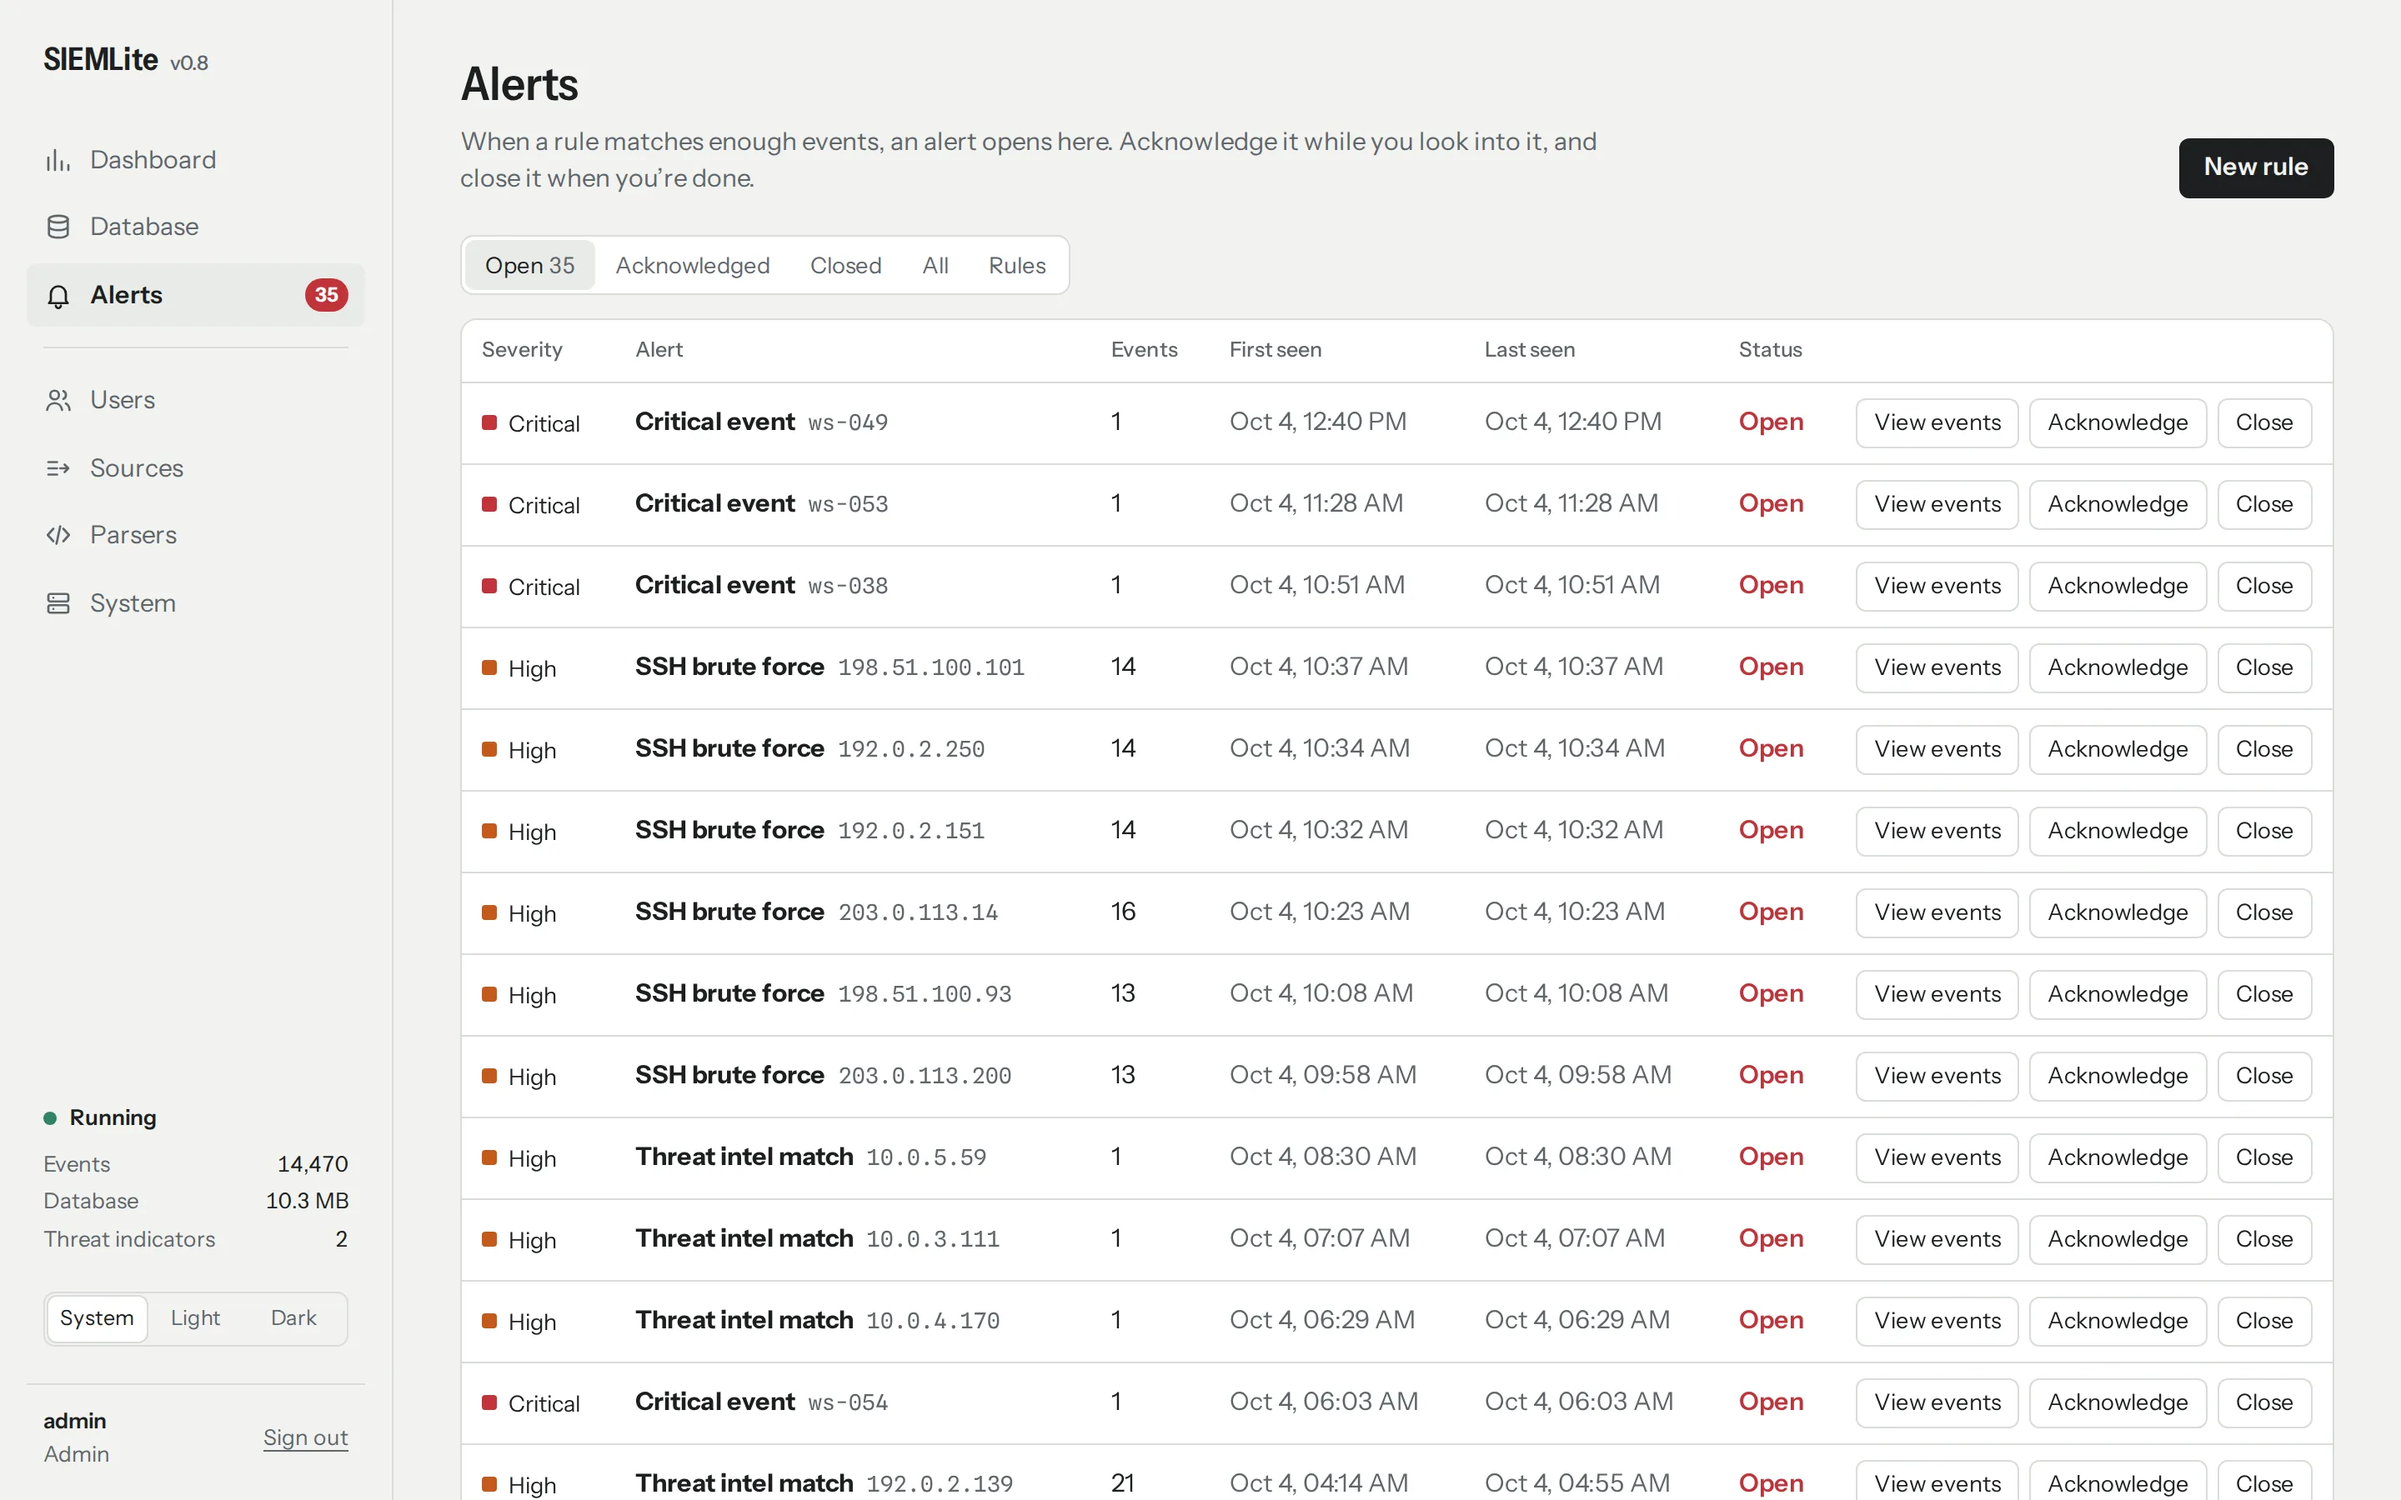
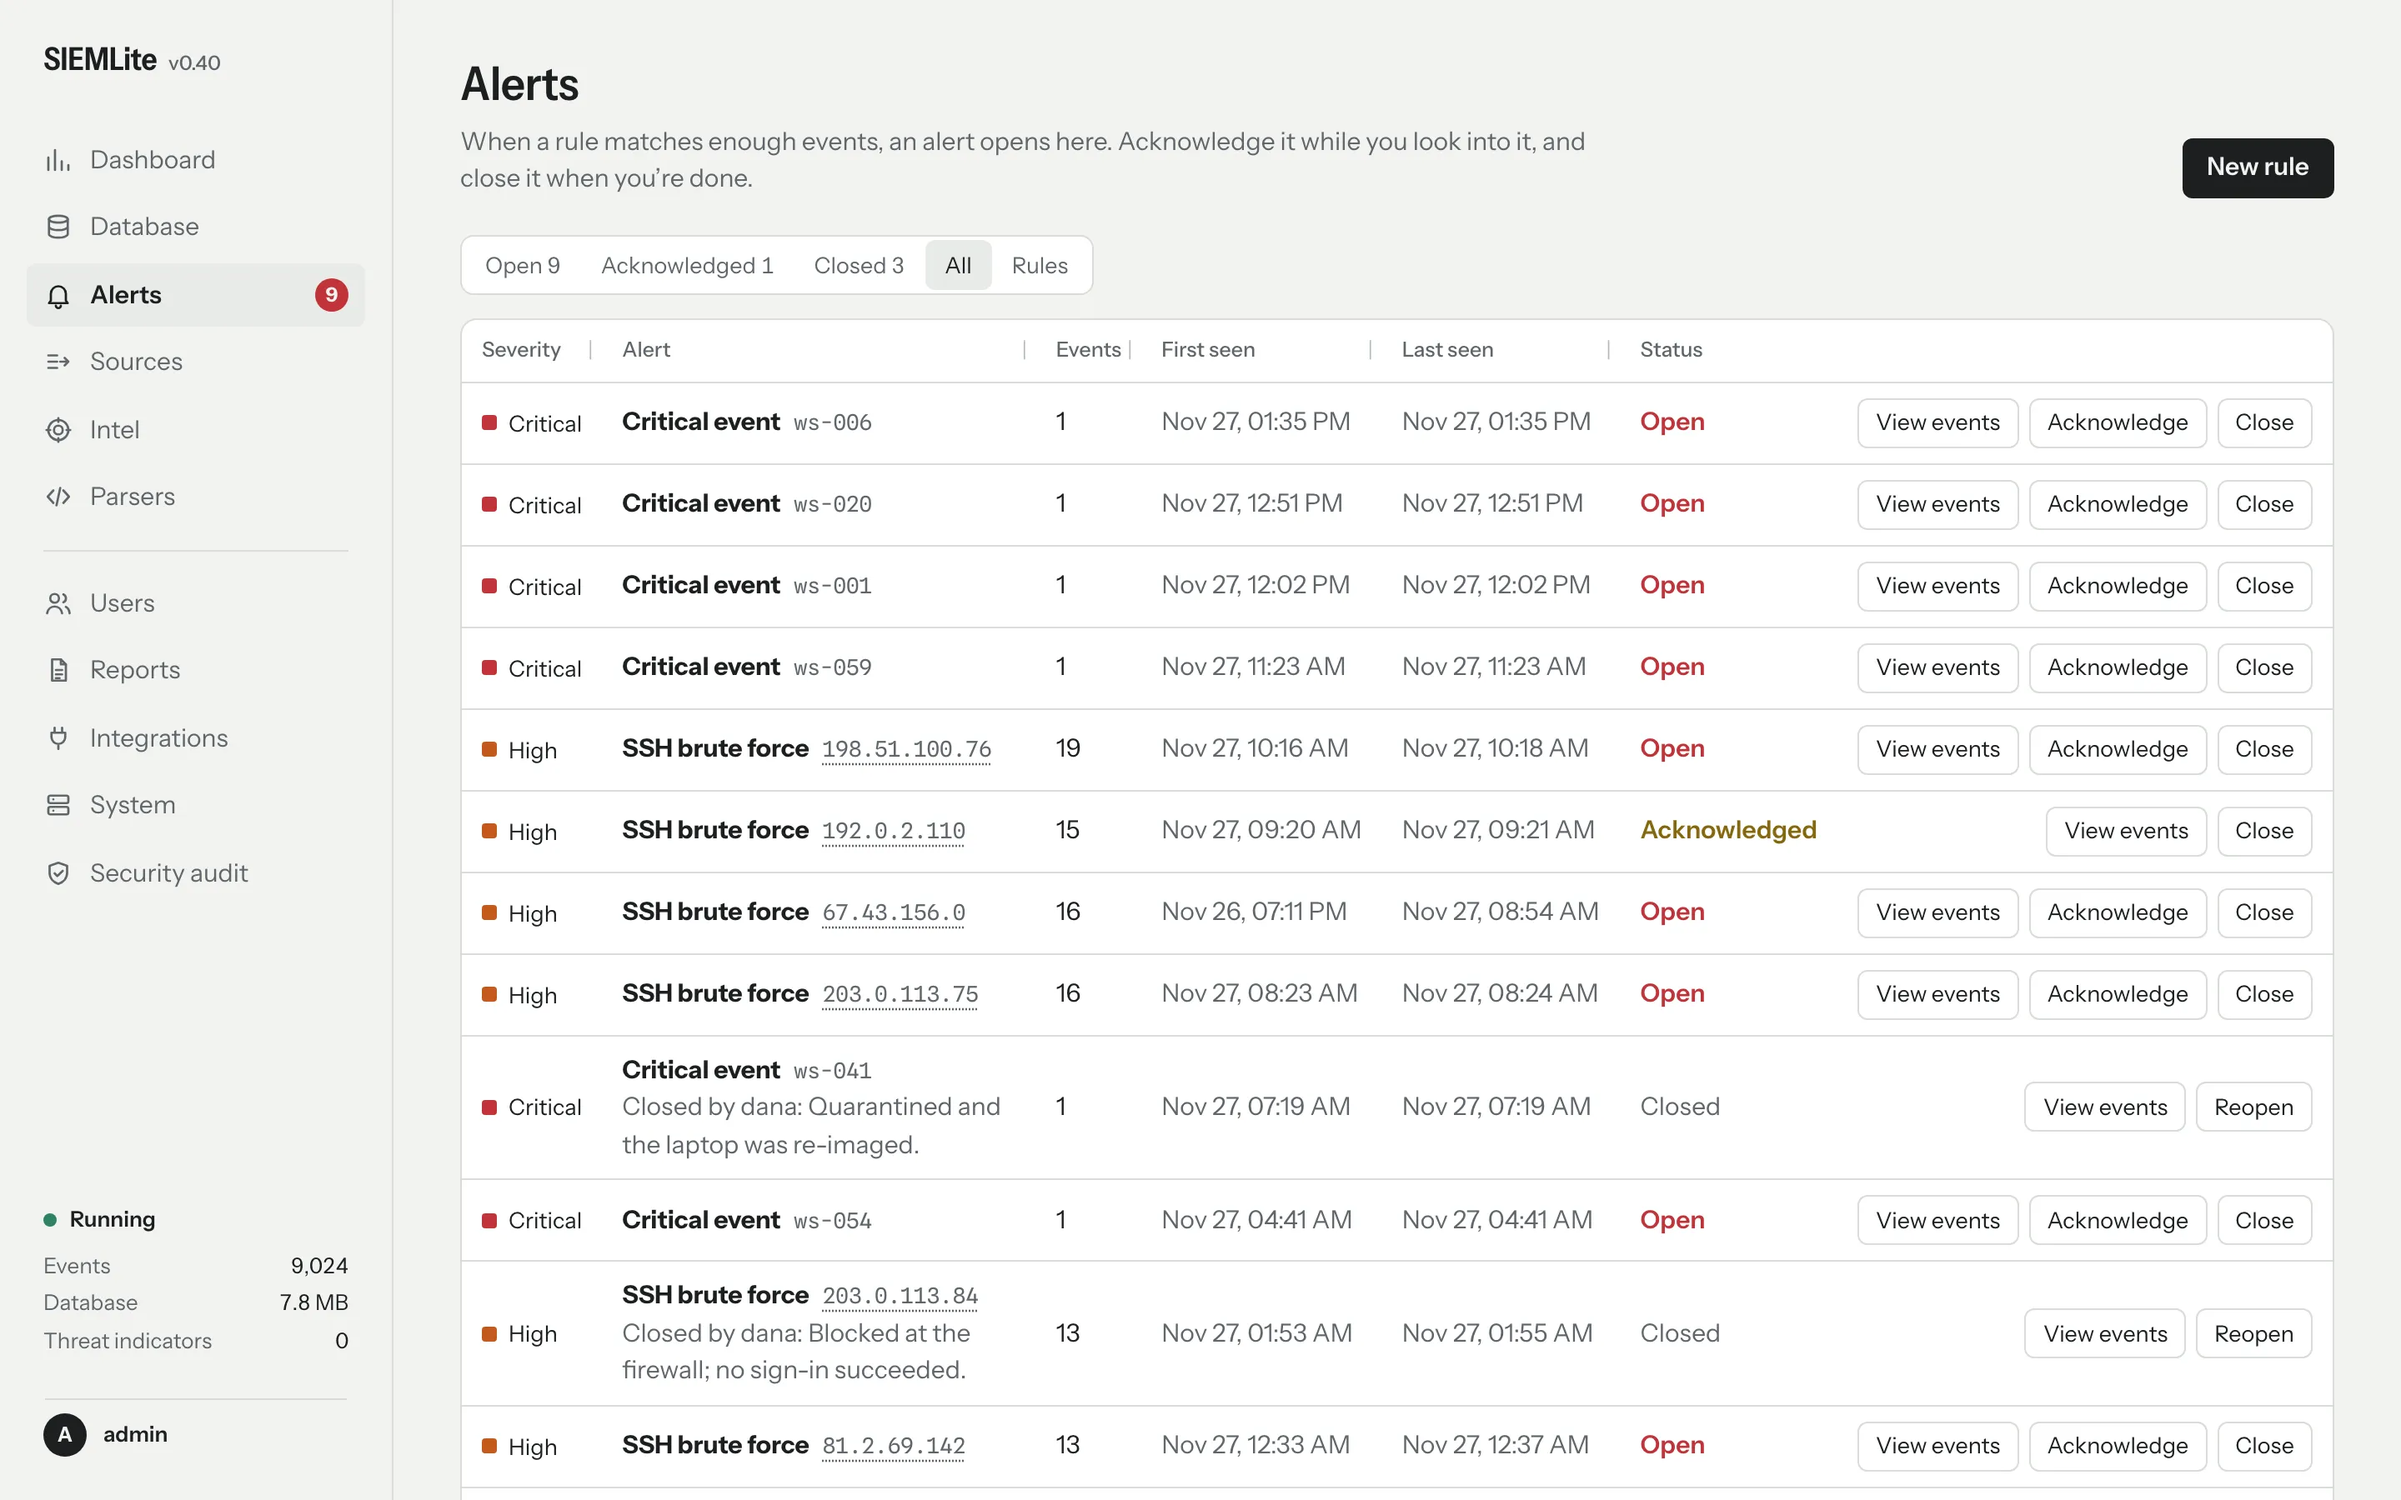
Retaken screenshots (v0.40) and docs rebuilt from the wiki
All 14 screenshots retaken from v0.40 with demo data: Source filter as a
checklist, IP hover card with the new hint, closed alerts with their notes, the
Syslog Manage button, the new sidebar. Alt text and the Database caption match
the new images. docs/ is now generated by scripts/build-docs.py from the updated
wiki (geoip-and-asn, integrations and web-ui differ from the hand edits only in
line wrapping and meta descriptions). Link check passes on 28 pages.

diff --git a/index.html b/index.html
@@ -228,7 +228,7 @@
       <picture>
         <source srcset="screenshots/dashboard-dark.webp" media="(prefers-color-scheme: dark)">
         <img class="shot hero-shot" src="screenshots/dashboard-light.webp" width="2880" height="1800"
-          alt="The SIEMLite Dashboard: a search field over the last 24 hours, with 14.3K events, 55 threat intel matches, 407 events rated High or worse and 35 open alerts, a chart of events per hour with threat matches in red, and lists by severity, busiest sources and IPs on threat lists.">
+          alt="The SIEMLite Dashboard: a search field over the last 24 hours, with 8.9K events, no threat intel matches, 277 events rated High or worse and 9 open alerts, a chart of events per hour with threat matches in red, and lists by severity, busiest sources and IPs on threat lists.">
       </picture>
       <p class="caption">The Dashboard: the last 24 hours at a glance, with threat matches in red and the alerts waiting for you. The events came from loggen.</p>
     </div>
@@ -246,12 +246,12 @@
             <p>The Database lists every event, newest first. Search words and phrases, set a date range, filter by one or more sources,
               severity, IP, user or country, and open any event for the full story. Click an IP to search for it, or right-click
               it to look it up or add it to a friendly list.</p>
-            <p>Here, a failed SSH login from an address on a botnet list, with the exact line that was logged.</p>
+            <p>Here, a search for one address across two sources, with a failed VPN login opened to show the exact line that was logged.</p>
           </div>
           <picture>
             <source srcset="screenshots/database-dark.webp" media="(prefers-color-scheme: dark)">
             <img class="shot" src="screenshots/database-light.webp" width="2880" height="1800" loading="lazy"
-              alt="The Database filtered to threat intel matches. An opened event explains that 192.0.2.139 is on a threat list for an SSH brute-force botnet, and shows a failed password for oracle on bastion-01 with the original log line.">
+              alt="The Database searching for events from 81.2.69.142 that mention failed or blocked, filtered to two sources. The IP hover card shows London, United Kingdom, with a hint to click to search and right-click for more. An opened event shows a failed VPN login for grace with the original log line.">
           </picture>
         </div>
         <div class="tour-row flip">
@@ -266,7 +266,7 @@
           <picture>
             <source srcset="screenshots/alerts-dark.webp" media="(prefers-color-scheme: dark)">
             <img class="shot" src="screenshots/alerts-light.webp" width="2880" height="1800" loading="lazy"
-              alt="The Alerts page with 35 open alerts from loggen's attacks: critical events on workstations, SSH brute force alerts for several addresses with 13 to 16 events each, and threat intel matches, each with View events, Acknowledge and Close buttons.">
+              alt="The Alerts page with 9 open alerts from loggen's attacks: critical events on workstations and SSH brute force alerts for several addresses with 13 to 19 events each, with View events, Acknowledge and Close buttons. Two closed alerts show who closed them and why.">
           </picture>
         </div>
         <div class="tour-row">
@@ -279,7 +279,7 @@
           <picture>
             <source srcset="screenshots/parser-dark.webp" media="(prefers-color-scheme: dark)">
             <img class="shot" src="screenshots/parser-light.webp" width="2880" height="1800" loading="lazy"
-              alt="The parser editor for the Log generator parser: a pattern with time, host, app, level, action, address, port and user fields, severity decided by the level, and a preview reading all four sample lines.">
+              alt="The parser editor for the Log generator parser: a pattern with time, host, app, level, action, address, port and user fields, severity decided by the level, and a preview reading all three sample lines.">
           </picture>
         </div>
         <div class="tour-row flip">

diff --git a/docs/web-ui.html b/docs/web-ui.html
@@ -66,8 +66,8 @@
   high-severity events, events over time, severity, busiest sources and the IPs on threat lists. Type a search and press
   Enter to open the results in the Database.</li>
 <li><strong>Database</strong>: every event, newest first, with full-text search, a <strong>From mm/dd/yy to mm/dd/yy</strong> date range and filters
-  for source, severity, category, IPs, user, program, country and threat matches. The <strong>Source</strong> filter is a checklist: tick one
-  or more sources (nothing ticked means all of them) to search just those; the choice is kept in the address, as <code>source=3,5</code>.
+  for source, severity, category, IPs, user, program, country and threat matches. The <strong>Source</strong> filter is a checklist: tick
+  one or more sources (nothing ticked means all of them) to search just those; the choice is kept in the address, as <code>source=3,5</code>.
   Open an event for its details.
   It loads 100 events at a time: scroll to the end, or choose <strong>Show more events</strong>, for the next 100.
   The address bar keeps the search, so it can be bookmarked or shared.</li>

diff --git a/docs/geoip-and-asn.html b/docs/geoip-and-asn.html
@@ -4,7 +4,7 @@
 <meta charset="utf-8">
 <meta name="viewport" content="width=device-width, initial-scale=1">
 <title>GeoIP and ASN · SIEMLite docs</title>
-<meta name="description" content="IP locations work with no setup: SIEMLite downloads the free DB-IP City and ASN databases itself, and every public IP gets a country, city and network.">
+<meta name="description" content="IP locations work with no setup. SIEMLite downloads the free DB-IP &quot;lite&quot; City and ASN databases">
 <meta name="color-scheme" content="light dark">
 <link rel="stylesheet" href="docs.css">
 <script src="docs.js" defer></script>

diff --git a/docs/integrations.html b/docs/integrations.html
@@ -4,7 +4,7 @@
 <meta charset="utf-8">
 <meta name="viewport" content="width=device-width, initial-scale=1">
 <title>Integrations · SIEMLite docs</title>
-<meta name="description" content="The Integrations page lists the services SIEMLite can connect to. Each is built in, and appears as a card with a state">
+<meta name="description" content="The Integrations page lists the services SIEMLite can connect to, in three tabs. Active has the ones that are set up">
 <meta name="color-scheme" content="light dark">
 <link rel="stylesheet" href="docs.css">
 <script src="docs.js" defer></script>
